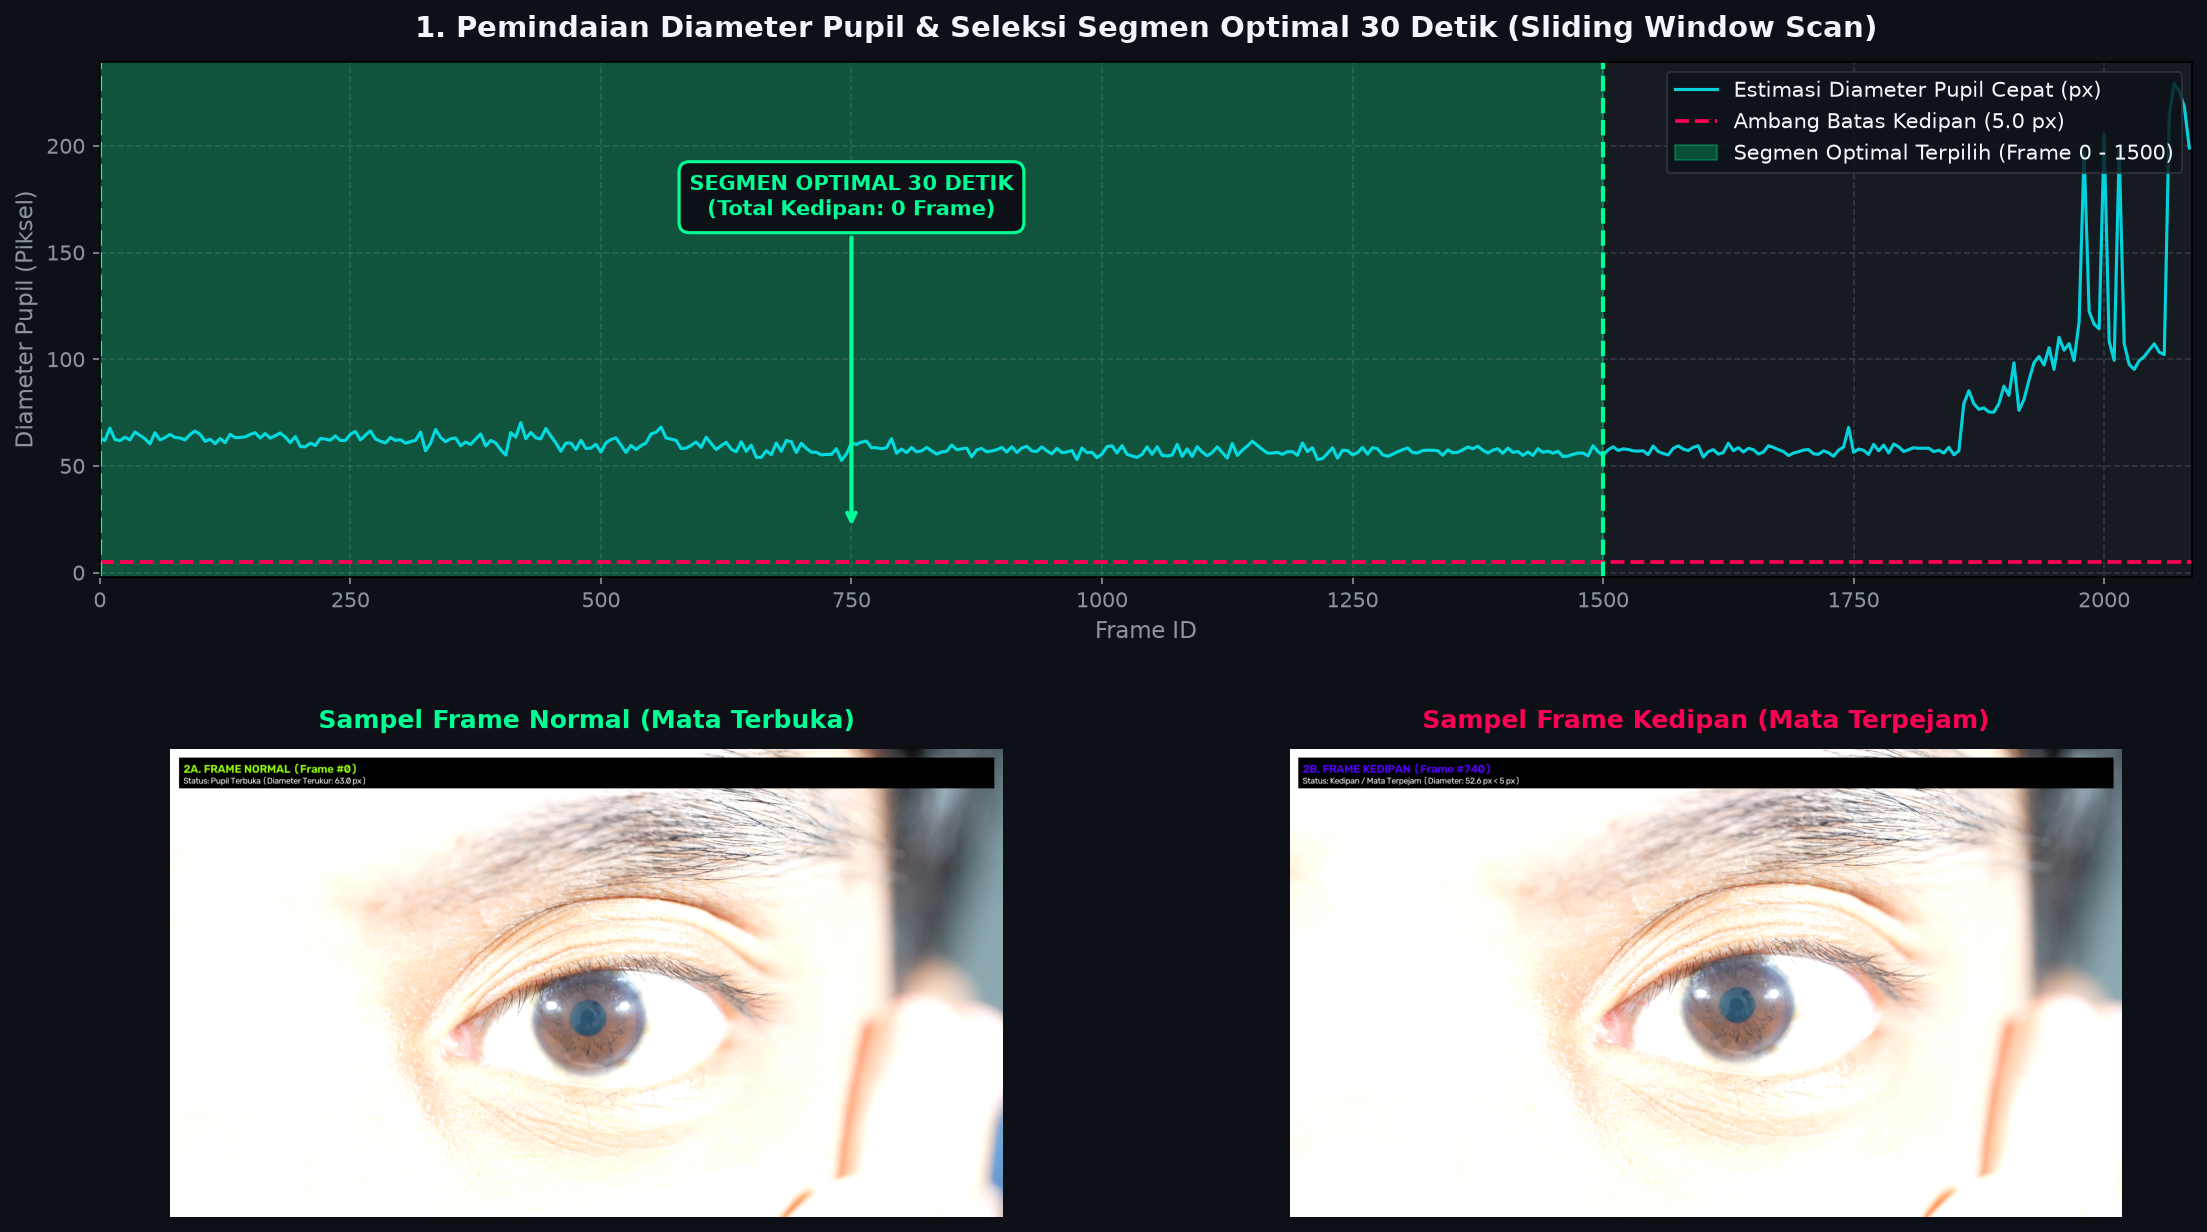
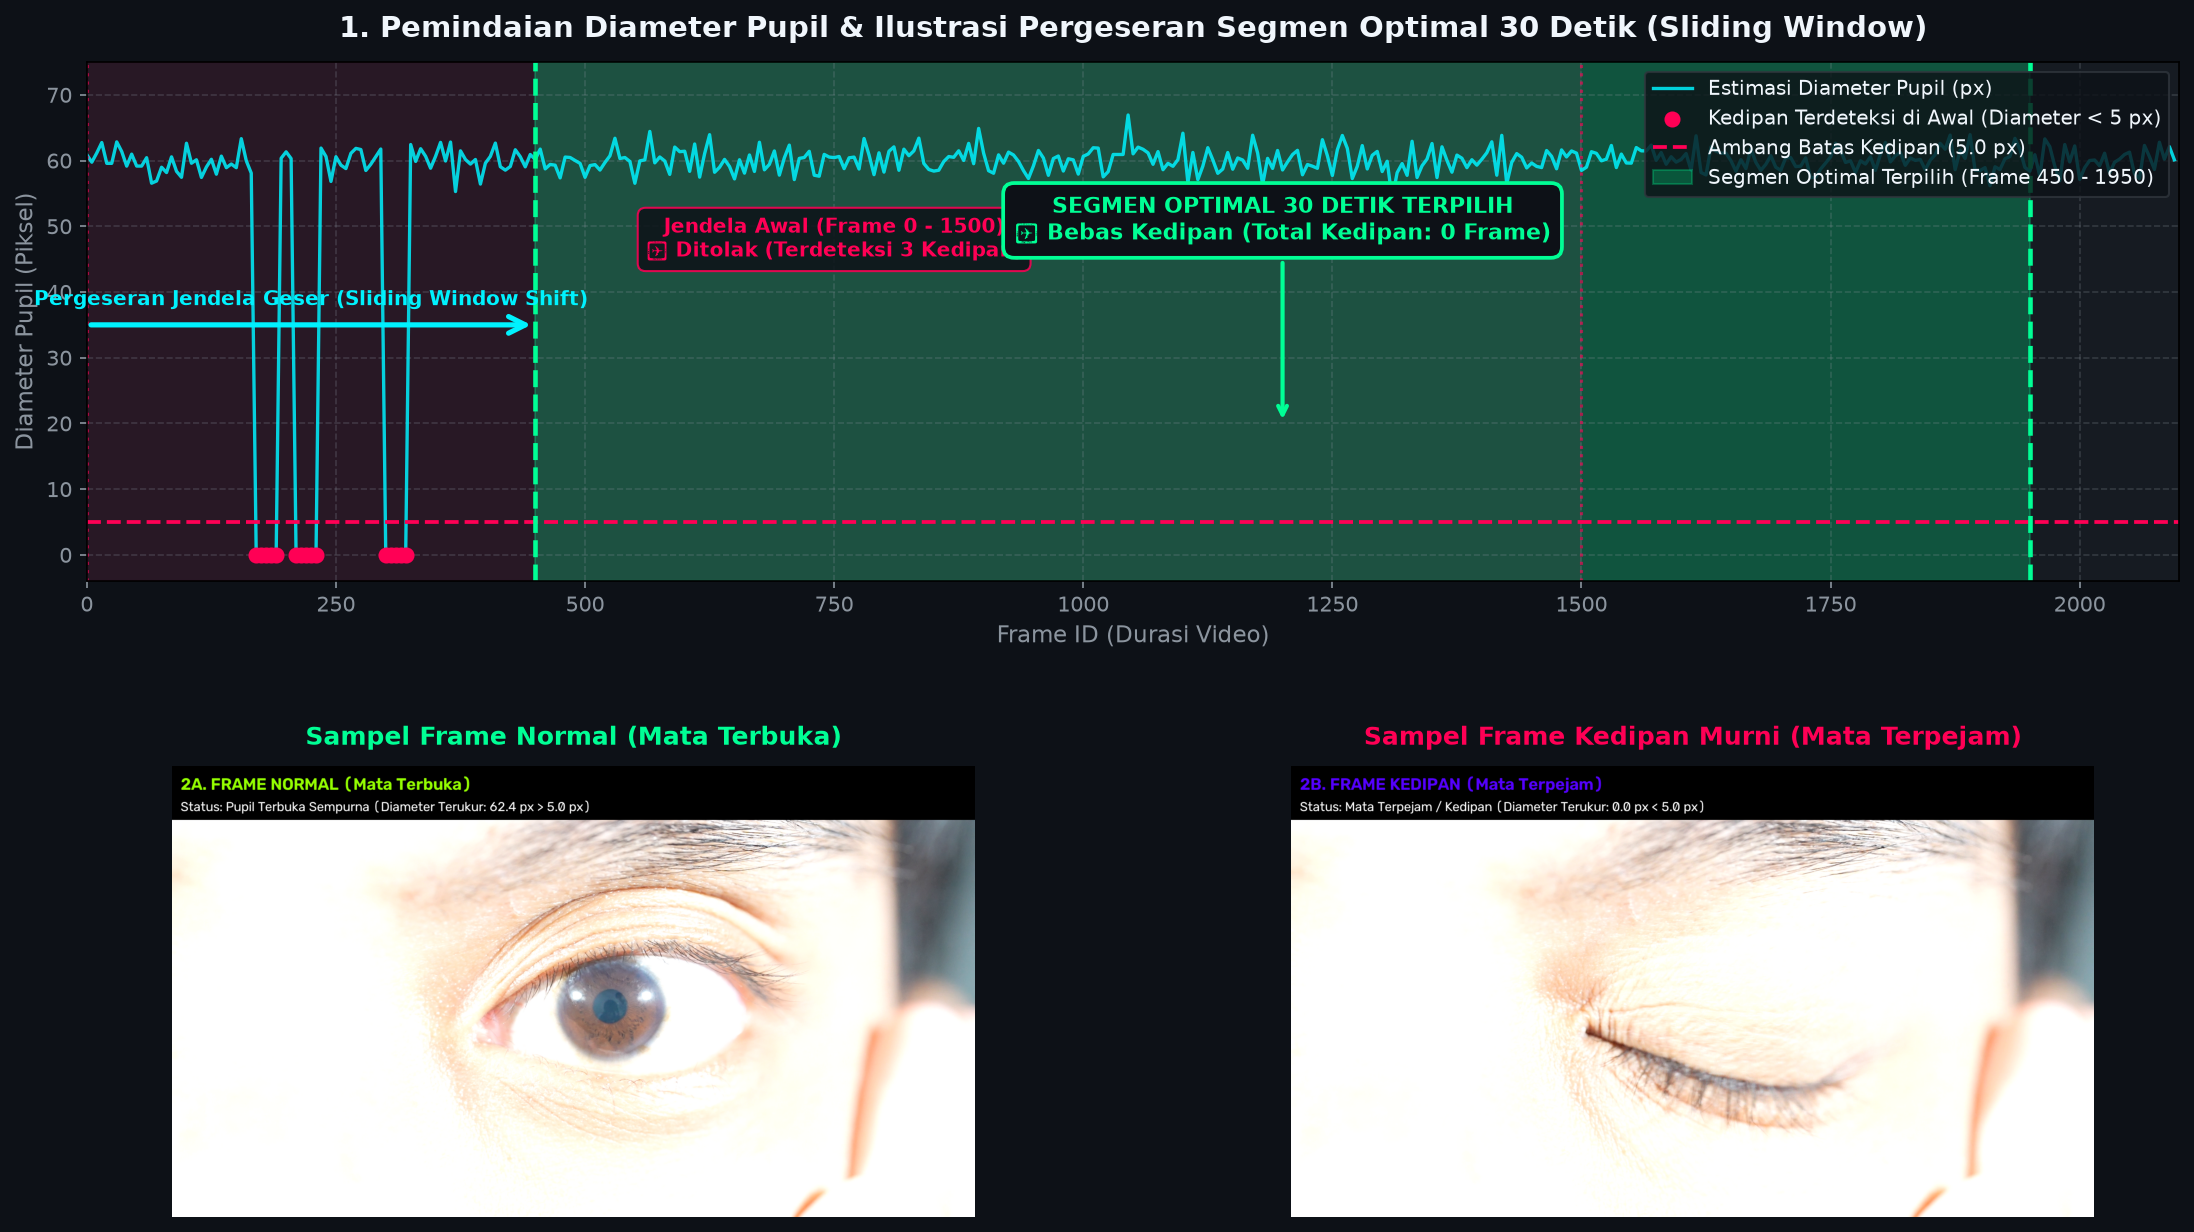
docs: update SOP-02 visualization with sliding window shift concept & user sample images

diff --git a/docs/about_program/fase1_data_preparation.md b/docs/about_program/fase1_data_preparation.md
@@ -30,7 +30,8 @@ Fase 1 berfokus pada tahap penyiapan data awal dari video mentah original hingga
 
 #### **Visualisasi Alur Kerja SOP-02**
 ![Visualisasi Alur Kerja SOP-02](../../assets/img/sop02_visualisasi_proses.png)
-*Gambar 1: Visualisasi alur kerja SOP-02. Panel atas menampilkan grafik pemindaian kepadatan kedipan di sepanjang durasi video dan sorotan hijau untuk Segmen Optimal 30 Detik (1.500 Frame); Panel bawah menampilkan perbandingan sampel Frame Normal (Pupil Terbuka) vs Frame Kedipan (Mata Terpejam).*
+*Gambar 1: Visualisasi alur kerja SOP-02. Panel atas menampilkan pemindaian diameter pupil (px), ambang kedipan (5.0 px), serta ilustrasi pergeseran jendela geser (Sliding Window Shift) dari segmen berkedip (Frame 0-1500, Ditolak) menuju Segmen Optimal 30 Detik (Frame 450-1950, Terpilih); Panel bawah menampilkan perbandingan sampel Frame Normal (Mata Terbuka - open.png) vs Frame Kedipan Murni (Mata Terpejam - blink.png).*
+
 
 
 #### **SOP-03: Pra-Pemrosesan Grayscale & EMA Motion-Stabilized Crop ROI (800x800 px)**
